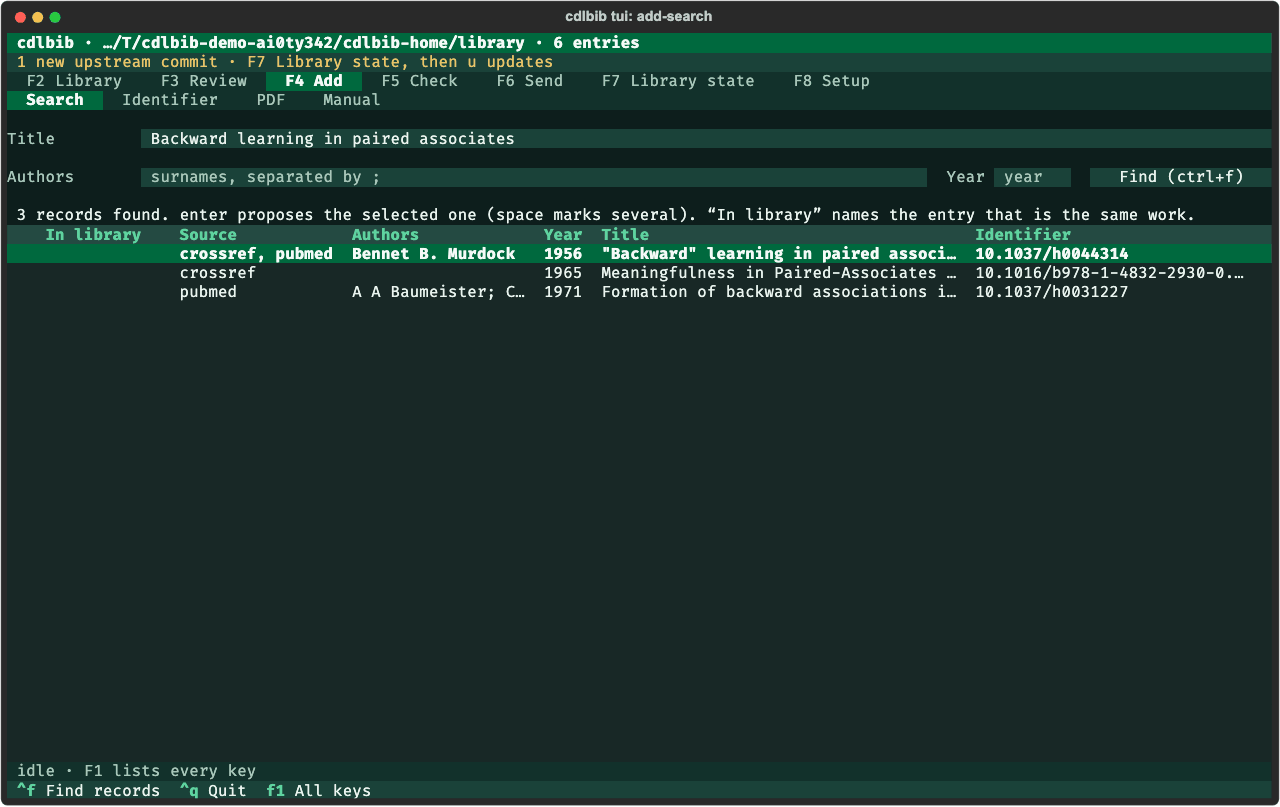
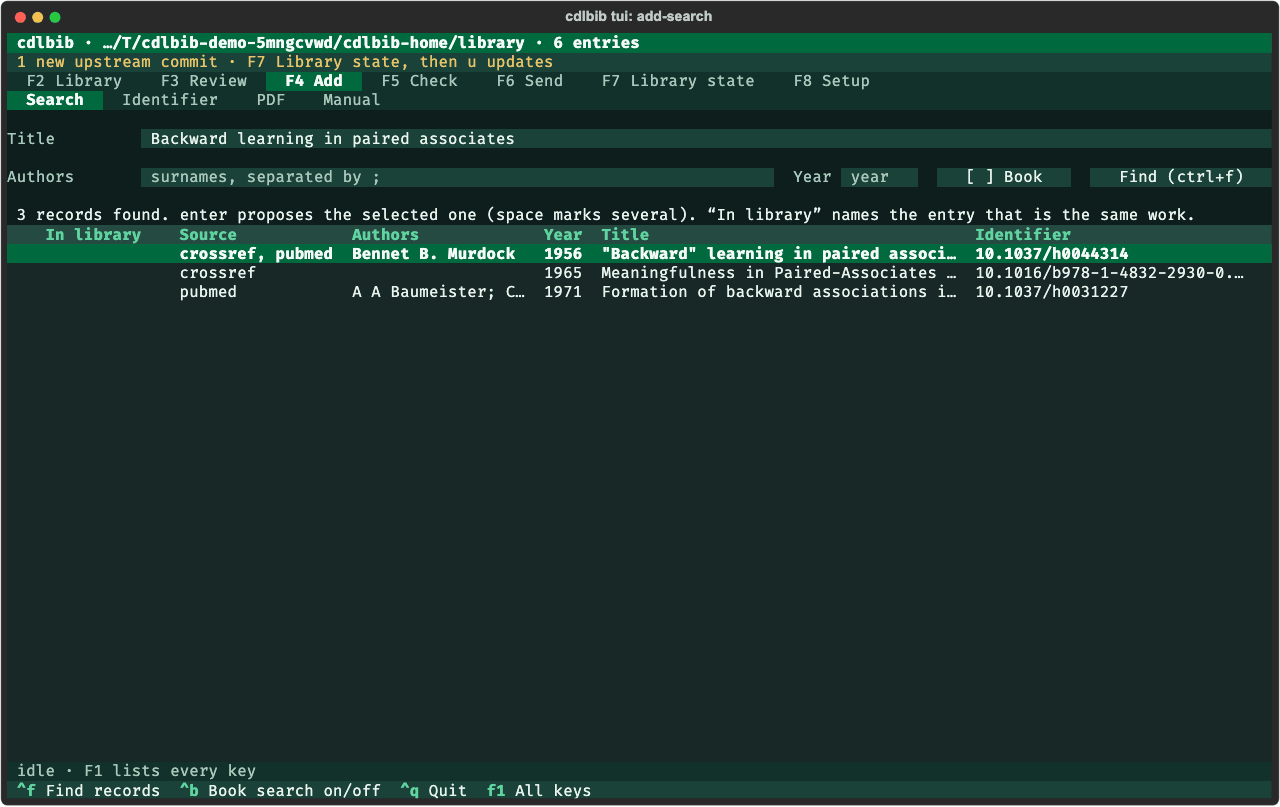
Terminal interface: the Book switch of the Search tab is a labelled one-line control
The switch was a Textual checkbox, which drew an empty box with a broken top border. It is
now written as the Setup view writes its own switch: '[ ] Book' / '[x] Book' on one line
between the year and Find, toggled with ctrl+b (in the footer and in F1's list). The row
fits at 132 and at 100 columns (tested, with the layout test). Web: the switch uses the
check-label style; the clean-at-every-size test covers the Search tab with it on and off.
docs/media/tui-add-search.png recaptured; tui-add-search-book.png added (the switch on,
two catalogue records). The terminal-interface and adding tutorials describe the switch.

diff --git a/src/cdlbib/web/static/js/add.js b/src/cdlbib/web/static/js/add.js
@@ -64,7 +64,7 @@ export async function show(main) {
     const book = h("input", { type: "checkbox", id: "add-book" });
     const out = h("div", { "aria-live": "polite" });
     add(panel, field("Title (or part of it)", title), field("Authors (separate several with ;)", authors), field("Year (optional)", year),
-      h("label", { for: "add-book" }, book, " A book: search the Library of Congress catalogue (needs the title and an author)"),
+      h("label", { class: "check" }, book, " A book: search the Library of Congress catalogue (needs the title and an author)"),
       h("div", { class: "row" }, button("Search", (event) => run(event.currentTarget, async () => {
         log.clear();
         const found = await post("/api/add/search", { title: title.value.trim(), authors: authors.value.split(";").map((name) => name.trim()).filter(Boolean),

diff --git a/src/cdlbib/tui/add.py b/src/cdlbib/tui/add.py
@@ -11,7 +11,7 @@ from textual import on
 from textual.app import ComposeResult
 from textual.binding import Binding
 from textual.containers import Horizontal, VerticalScroll
-from textual.widgets import Button, Checkbox, DataTable, Input, Select, Static, TabbedContent, TabPane
+from textual.widgets import Button, DataTable, Input, Select, Static, TabbedContent, TabPane
 
 from .. import api
 from . import render
@@ -22,6 +22,7 @@ from .widgets import ChoiceScreen, FilePicker, Shown, Table, View, fill_table
 class AddView(View):
     BINDINGS = [
         Binding("ctrl+f", "find", "Find records", priority=True),
+        Binding("ctrl+b", "book", "Book search on/off", priority=True),
         Binding("space", "mark", "Mark", show=False),
         Binding("ctrl+o", "browse", "Choose a PDF", priority=True),
         Binding("l", "lookup", "Look up"),
@@ -36,6 +37,7 @@ class AddView(View):
     AddView #manual-form { height: 1fr; }
     AddView #s-year { width: 8; margin-right: 2; }
     AddView #s-authors { margin-right: 2; }
+    AddView #s-book { margin-right: 2; }
     AddView #p-path { margin-right: 2; }
     AddView .form-label.short { width: 5; }
     AddView #m-entrytype { margin-right: 2; }
@@ -64,8 +66,7 @@ class AddView(View):
                     yield Input(placeholder="surnames, separated by ;", id="s-authors")
                     yield Static("Year", classes="form-label short")
                     yield Input(placeholder="year", id="s-year")
-                    yield Checkbox("Book", id="s-book", tooltip="Search the Library of Congress catalogue for a book "
-                                                                "(needs the title and an author)")
+                    yield Button(Text(self.BOOK[False]), id="s-book")
                     yield Button("Find (ctrl+f)", id="s-find")
                 yield Shown(id="s-message", classes="message")
                 yield Table(id="s-results", cursor_type="row")
@@ -95,6 +96,17 @@ class AddView(View):
                     yield Select([("article", "article")], id="m-entrytype", allow_blank=False, value="article")
                     yield Button("Draft the entry (ctrl+s)", id="m-draft")
                 yield VerticalScroll(id="manual-form")
+
+    # The Book switch of the Search tab, written as the Setup view writes its own: a labelled
+    # one-line button, with no box drawn around it.
+    BOOK = {False: "[ ] Book", True: "[x] Book"}       # its key, ctrl+b, is in the footer and in F1's list
+    book = False
+
+    def action_book(self):
+        """Search for a book (the Library of Congress catalogue, by title and author), or not."""
+        self.book = not self.book
+        self.query_one("#s-book", Button).label = Text(self.BOOK[self.book])
+        self._search_message()
 
     def on_mount(self):
         self._fill_leads()
@@ -153,7 +165,7 @@ class AddView(View):
 
     @on(Button.Pressed)
     def _pressed(self, event):
-        {"s-find": self.action_find, "p-browse": self.action_browse, "p-lookup": self.action_lookup,
+        {"s-find": self.action_find, "s-book": self.action_book, "p-browse": self.action_browse, "p-lookup": self.action_lookup,
          "p-open": self.action_open_pdf, "p-model": self.action_model, "p-manual": self.action_manual,
          "m-draft": self.action_draft}[event.button.id]()
 
@@ -177,8 +189,11 @@ class AddView(View):
 
     def _search_message(self, lines=None, role=None):
         out = self.app.writer()
-        for line in lines or ["Type a title, authors, or both, and press enter. The records found are leads: "
-                              "choosing one looks it up and shows the proposed entry."]:
+        for line in lines or [("Book search: type the book's title and an author, and press enter. The Library of "
+                               "Congress catalogue is searched; each edition is a lead of its own."
+                               if self.book else
+                               "Type a title, authors, or both, and press enter. The records found are leads: "
+                               "choosing one looks it up and shows the proposed entry.")]:
             out.line(line, role)
         self.query_one("#s-message", Shown).show(out.text)
 
@@ -190,7 +205,7 @@ class AddView(View):
         title = self.query_one("#s-title", Input).value.strip() or None
         authors = [name.strip() for name in self.query_one("#s-authors", Input).value.split(";") if name.strip()]
         year = self.query_one("#s-year", Input).value.strip() or None
-        book = self.query_one("#s-book", Checkbox).value
+        book = self.book
 
         def done(found):
             self.leads, self.marked, self.search_errors = list(found), set(), list(found.errors)

diff --git a/tests/test_tui_add.py b/tests/test_tui_add.py
@@ -750,17 +750,49 @@ def test_the_search_tab_asks_the_catalogue_when_book_is_ticked(tmp_path):
         async with T.opened(ws) as pilot:
             app = pilot.app
             await add_tab(pilot, 0)
-            from textual.widgets import Checkbox, Input
+            from textual.widgets import Input
+            row = next(line for line in T.screen_text(app).splitlines() if "Find (ctrl+f)" in line)
+            assert "[ ] Book" in row and row.index("Year") < row.index("[ ] Book") < row.index("Find (ctrl+f)")
+            assert "Book search on/off" in T.screen_text(app).splitlines()[-1]          # its key, in the footer
             app.screen.query_one("#s-title", Input).value = "Numerical optimization"
             app.screen.query_one("#s-authors", Input).value = "Nocedal"
-            box = app.screen.query_one("#s-book", Checkbox)
-            assert box.value is False                      # a search is for a paper unless said otherwise
-            box.value = True
-            await pilot.pause()
+            await T.press(pilot, "ctrl+b")                 # a search is for a paper unless said otherwise
+            row = next(line for line in T.screen_text(app).splitlines() if "Find (ctrl+f)" in line)
+            assert "[x] Book" in row and "Book search: type the book's title" in T.shown(app, "#s-message")
             app.screen.query_one("#s-title", Input).focus()
             await T.press(pilot, "enter")
             await T.until(pilot, lambda: "2 records found" in T.shown(app, "#s-message"))
             text = T.screen_text(app)
             assert "loc-catalogue" in text and "LCCN 2006923897" in text and "LCCN 99013263" in text
             assert "did not answer" not in T.shown(app, "#s-message")      # nothing but the catalogue was asked
+    T.run(journey())
+
+
+@pytest.mark.parametrize("columns", [132, 100])
+def test_the_search_row_is_whole_and_labelled_at_both_widths(tmp_path, columns):
+    """The Book switch is a labelled one-line control like the Setup view's, with no box drawn
+    round it: the row holds Authors, Year, the switch and Find on one line, nothing cut."""
+    ws = T.library(tmp_path / "row")
+    ws.bib.write_text("", encoding="utf-8")
+
+    async def journey():
+        async with T.opened(ws, size=(columns, 40)) as pilot:
+            app = pilot.app
+            await add_tab(pilot, 0)
+            for label in ("[ ] Book", "[x] Book"):
+                lines = T.screen_text(app).splitlines()
+                (row,) = [line for line in lines if "Find (ctrl+f)" in line]
+                assert row.split()[0] == "Authors" and label in row and "Year" in row, row
+                assert row.index("Year") < row.index(label) < row.index("Find (ctrl+f)")
+                assert len(row.rstrip()) <= columns and row.rstrip().endswith("Find (ctrl+f)")
+                assert not any(mark in row for mark in "▔▁▊▎│┃╭╮╰╯┌┐└┘")          # no border drawn in the row
+                around = lines[lines.index(row) - 1] + lines[lines.index(row) + 1]
+                assert not any(mark in around for mark in "▔▁▊▎│┃╭╮╰╯┌┐└┘")       # nor above or below it
+                box = app.screen.query_one("#s-book")
+                assert box.region.height == 1 and box.region.width >= len(label)
+                assert "Book search on/off" in lines[-1]
+                await T.press(pilot, "ctrl+b")
+            from cdlbib.tui.app import KEYS                                        # F1's list names the key
+            assert ("ctrl+b", "Search tab: switch the book search on or off ([x] Book: the Library of Congress "
+                              "catalogue)") in [pair for _, keys in KEYS for pair in keys]
     T.run(journey())

diff --git a/scripts/capture_tui.py b/scripts/capture_tui.py
@@ -9,7 +9,7 @@ anything of cdlbib runs, so neither the user's library, their TeX tree nor the r
 is read or written. Lookups are the test suite's saved responses, with the network refused.
 
 Writes tui-library.png, tui-detail-evidence.png, tui-edit-preview.png, tui-review-approve.png,
-tui-add-search.png, tui-proposal.png, tui-add-pdf.png and tui-proposal-pdf.png (when pdflatex is
+tui-add-search.png, tui-add-search-book.png, tui-proposal.png, tui-add-pdf.png and tui-proposal-pdf.png (when pdflatex is
 installed), tui-send.png, tui-update-question.png, tui-setup.png and tui-library-light.png.
 
 Each picture is the interface's own screenshot (Textual's SVG export), drawn by headless
@@ -114,7 +114,8 @@ def main(out):
         ws = api.ensure_library()
         if folder.resolve() not in ws.root.resolve().parents:        # never anything but this run's own library
             raise SystemExit(f"refusing to go on: the library in use is {ws.root}, not one under {folder}")
-        T.seed_responses(ws, T.COMPLETION, T.PDF_LOOKUPS, T.TUI_SEARCH)
+        T.seed_responses(ws, T.COMPLETION, T.PDF_LOOKUPS, T.TUI_SEARCH,
+                         ROOT / "tests/fixtures/intake/books.json.gz")       # a book search, for one still
         api.check_keys(ws, ["Game62", "Zoll90"], mailto=T.CONTACT)     # the real gate, over the saved responses
         os.environ.update(T.refused_network())                         # after the clone: no source can be asked
         os.environ["NO_PROXY"] = os.environ["no_proxy"] = "api.github.com"   # gh may still say who is logged in
@@ -178,6 +179,15 @@ async def journey(T, ws, out, pdf):
         await T.press(pilot, "enter")
         shot("proposal")
         await T.press(pilot, "q")
+
+        from textual.widgets import Input                              # the same tab, searching for a book
+        app.screen.query_one("#s-title", Input).value = "Numerical optimization"
+        app.screen.query_one("#s-authors", Input).value = "Nocedal"
+        await T.press(pilot, "ctrl+b")
+        app.screen.query_one("#s-title", Input).focus()
+        await T.press(pilot, "enter")
+        shot("add-search-book")
+        await T.press(pilot, "ctrl+b")
 
         if pdf is not None:                                            # add: a PDF, read and drawn
             await T.press(pilot, "escape", "right", "right", "enter")

diff --git a/src/cdlbib/tui/app.py b/src/cdlbib/tui/app.py
@@ -71,6 +71,7 @@ KEYS = (
         ("esc, then left / right", "from a text box to the row of tab names, and between Search, Identifier, PDF, Manual"),
         ("enter or down", "on the row of tab names: into the tab"),
         ("ctrl+f", "Search tab: find records for the title, authors and year typed (also enter in a box)"),
+        ("ctrl+b", "Search tab: switch the book search on or off ([x] Book: the Library of Congress catalogue)"),
         ("space", "Search tab: mark or unmark the selected record"),
         ("enter", "Search tab: propose the marked records (or the selected one); Identifier tab: look them up"),
         ("ctrl+o", "PDF tab: choose the file from the folder tree"),

diff --git a/tests/test_web_browser.py b/tests/test_web_browser.py
@@ -1155,6 +1155,11 @@ def _walk(visit, page, pdf, long_pdf=None):
     yield "review, an entry"
     visit.nav("add")
     yield "add, search"
+    switch = page.get_by_label("A book: search the Library of Congress catalogue (needs the title and an author)")
+    expect(switch).not_to_be_checked()               # a search is for a paper unless said otherwise
+    switch.check()
+    yield "add, search for a book"
+    switch.uncheck()
     page.click("role=tab[name='Identifiers']")
     page.fill("#add-identifiers", pdfs.ZOLLER_DOI)
     page.click("button:has-text('Look up')")

diff --git a/docs/tutorials/terminal-interface.md b/docs/tutorials/terminal-interface.md
@@ -135,6 +135,7 @@ that was read before is shown at once.
 |esc, then left / right|from a text box to the row of tab names, and between Search, Identifier, PDF, Manual|
 |enter or down|on the row of tab names: into the tab|
 |ctrl+f|Search tab: find records for the title, authors and year typed (also enter in a box)|
+|ctrl+b|Search tab: switch the book search on or off (`[x] Book` / `[ ] Book`)|
 |space|Search tab: mark or unmark the selected record|
 |enter|Search tab: propose the marked records (or the selected one); Identifier tab: look them up|
 |ctrl+o|PDF tab: choose the file from the folder tree|
@@ -307,9 +308,16 @@ To change tabs, press `esc`, then `left` or `right`, then `enter`.
 - **Search**: type a title, authors separated by `;`, a year, or several of these, and
   press `enter`. The records found are listed with their sources, and with the key of the
   library entry that is the same work when there is one. `enter` on a record looks it up
-  and shows the proposal; `space` marks several first.
-- **Identifier**: type one or several DOIs, PMIDs or arXiv identifiers, separated by
-  spaces, commas or semicolons, and press `enter`.
+  and shows the proposal; `space` marks several first. For a book, press `ctrl+b`: the
+  switch beside the year reads `[x] Book`, and the search then asks the Library
+  of Congress catalogue for the title and the first author (both are needed) and nothing
+  else. Each edition is a record of its own, with its LCCN as identifier. With the switch
+  off, the catalogue is asked only when Crossref, PubMed and arXiv found nothing.
+
+  ![The Search tab with the Book switch on: "Numerical optimization" and "Nocedal" typed, the switch reading "[x] Book" between the year and the Find button, and two records from loc-catalogue, of 2006 and 1999, each with its LCCN](../media/tui-add-search-book.png)
+- **Identifier**: type one or several DOIs, PMIDs or arXiv identifiers, or a book's
+  `ISBN:9780195333244` or `LCCN:2012007685`, separated by spaces, commas or semicolons,
+  and press `enter`.
 - **PDF**: type the path of a PDF and press `enter`, or choose the file with `ctrl+o`.
   The view shows the text read from the PDF: the identifiers found in it, each with its
   page and the line it was read from, the title read, and the text of the first page.

diff --git a/docs/tutorials/adding-references.md b/docs/tutorials/adding-references.md
@@ -395,8 +395,9 @@ Verification: not checked
 At a terminal the two records are listed with their year, publisher, edition and LCCN.
 Adding `--year 2006` builds the second edition, because one record has that year. In the
 web and terminal interfaces, type `ISBN 9780195333244` or `LCCN:2012007685` in the
-Identifier tab, or tick "A book" ("Book" in the terminal interface) in the Search tab to
-search the catalogue by title and author. A search that is not marked as a book asks the
+Identifier tab, or switch the book search on in the Search tab (the box "A book: search
+the Library of Congress catalogue" in the web interface; `ctrl+b`, shown as
+`[x] Book`, in the terminal interface) to search the catalogue by title and author. A search that is not marked as a book asks the
 catalogue only when Crossref, PubMed and arXiv gave no record for the title and author,
 and the progress lines say so.
 
